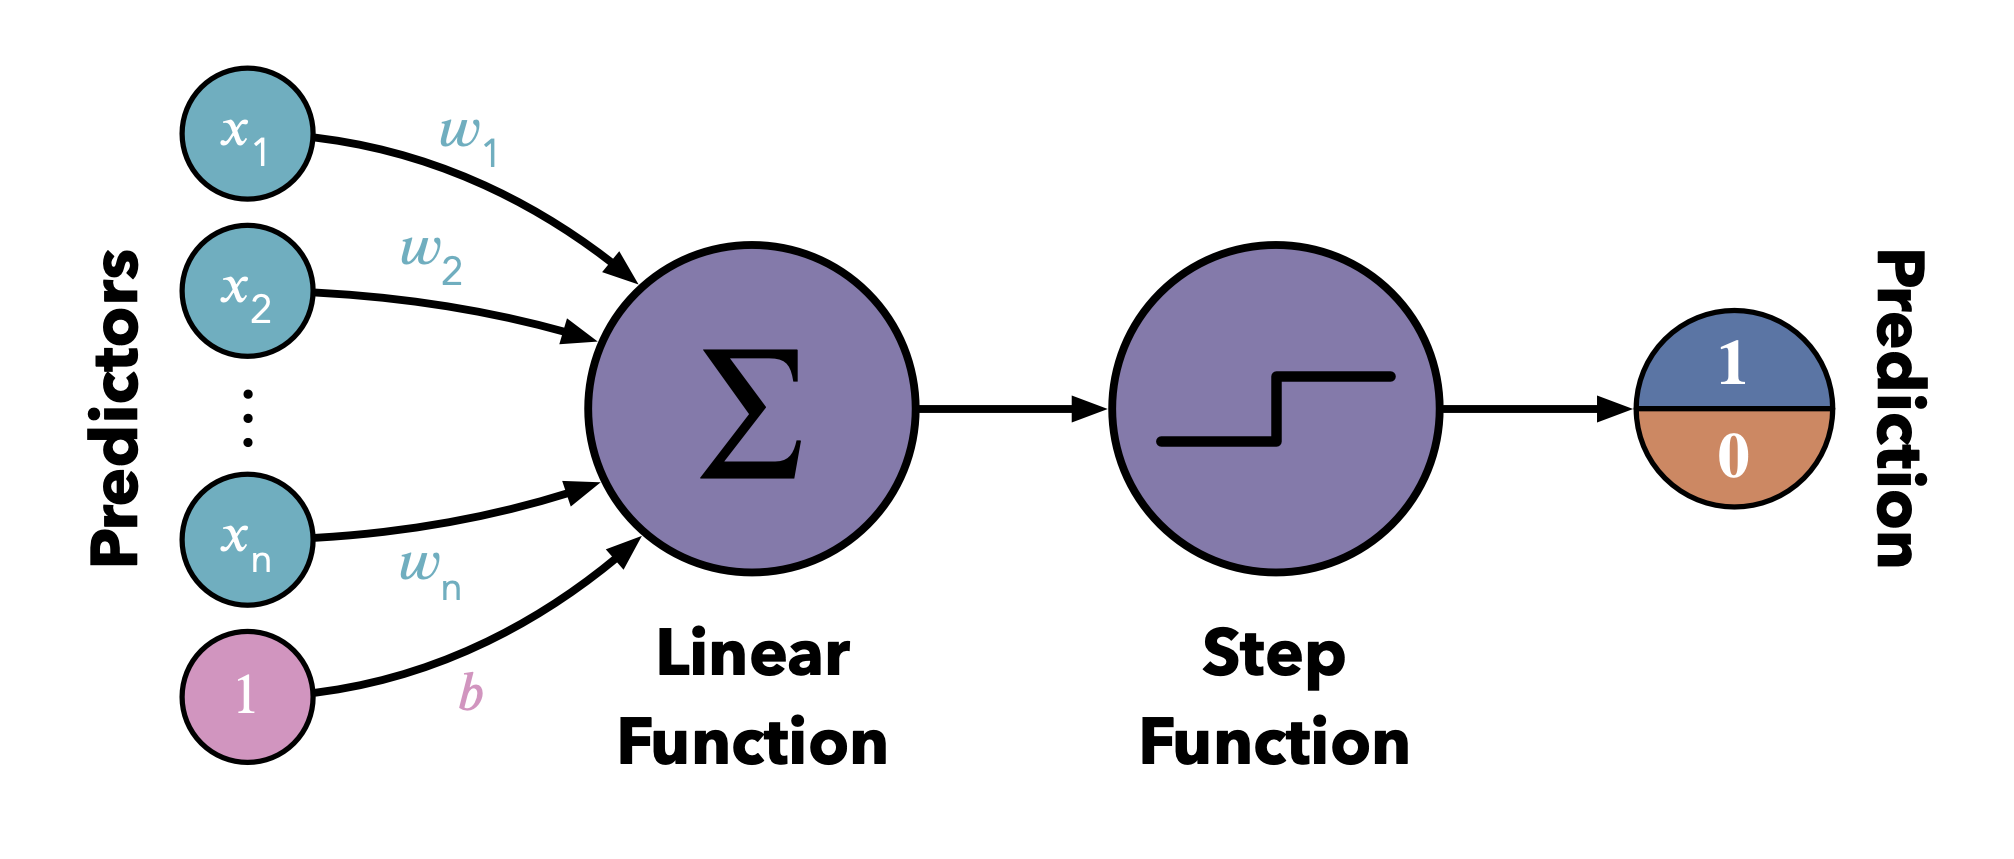
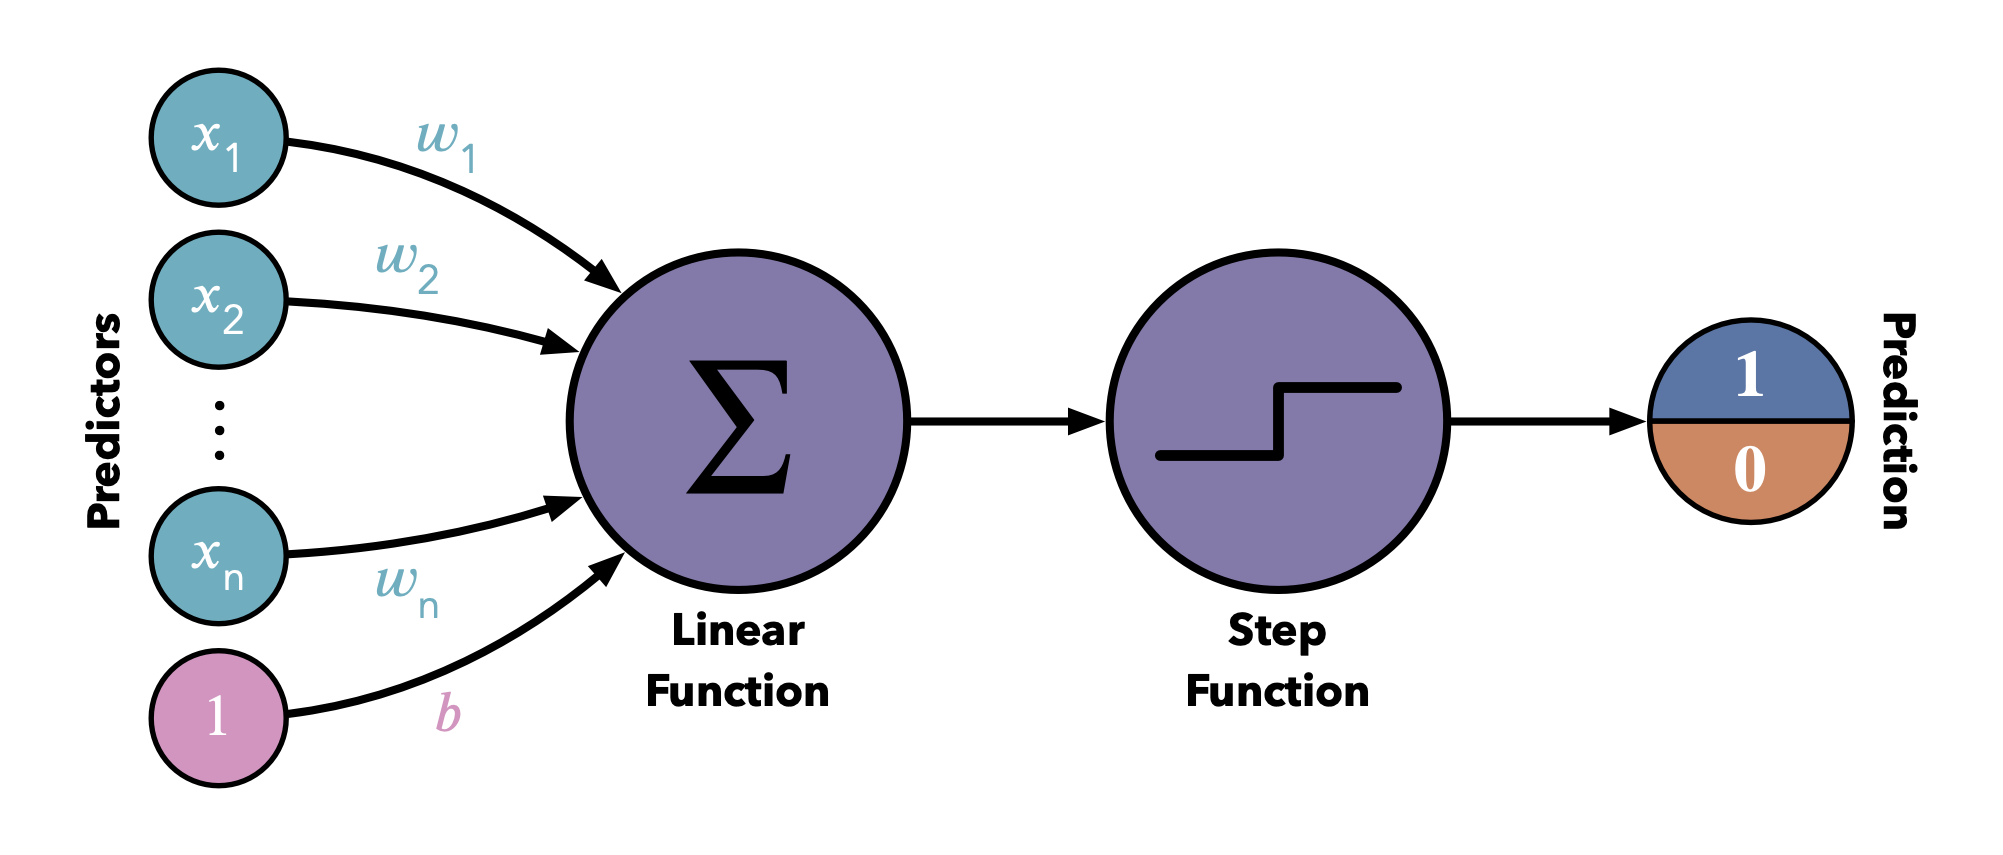
Update documentation

diff --git a/searchindex.js b/searchindex.js
@@ -1,1 +1,1 @@
-Search.setIndex({docnames:["index","machine-learning/reinforcement-learning/index","machine-learning/supervised-learning/index","machine-learning/supervised-learning/linear-regression","machine-learning/supervised-learning/perceptrons","machine-learning/unsupervised-learning/index"],envversion:{"sphinx.domains.c":1,"sphinx.domains.changeset":1,"sphinx.domains.citation":1,"sphinx.domains.cpp":1,"sphinx.domains.index":1,"sphinx.domains.javascript":1,"sphinx.domains.math":2,"sphinx.domains.python":1,"sphinx.domains.rst":1,"sphinx.domains.std":1,sphinx:56},filenames:["index.ipynb","machine-learning/reinforcement-learning/index.ipynb","machine-learning/supervised-learning/index.ipynb","machine-learning/supervised-learning/linear-regression.ipynb","machine-learning/supervised-learning/perceptrons.ipynb","machine-learning/unsupervised-learning/index.ipynb"],objects:{},objnames:{},objtypes:{},terms:{"00000000e":3,"05900000e":3,"09700000e":3,"0th":3,"19918532e":3,"25000000e":3,"29690000e":3,"2x_1":3,"2x_2":3,"30786141e":3,"32600000e":3,"35490000e":3,"3x_1":3,"4c72b0":4,"4th":3,"4x_2":3,"64b5cd":3,"6x_1x_2":3,"77000000e":3,"8172b3":[3,4],"86000000e":3,"86249920e":3,"89000000e":3,"94870000e":3,"95818772e":3,"96325160e":3,"98199191e":3,"import":3,"long":3,"new":[0,2,3],"return":3,"short":3,"super":[0,3],"true":[0,3],"try":[3,4],"while":3,And:4,For:3,One:3,The:[3,4],Then:3,There:3,With:0,abbrevi:4,abl:3,about:[2,3],abov:[3,4],accord:3,account:3,accur:3,achiev:[3,4],across:3,action:1,actual:3,add:3,added:3,adding:3,addit:3,adjust:3,afghanistan:3,aforement:3,after:3,again:[3,4],aim:3,albania:3,algeria:3,algorithm:[1,2],all:3,alpha:3,alreadi:3,also:[2,3],although:2,amount:[3,5],analysi:0,andorra:3,angola:3,ani:3,anoth:3,apart:3,appli:3,around:3,arrai:[3,4],articl:0,assign:3,attend:0,avail:3,averag:3,avoid:3,axes:3,back:0,bad:3,balanc:3,base:0,basi:[3,4],basic:3,batch:3,becaus:3,becom:3,been:0,befor:3,begin:4,behind:3,being:3,belong:2,below:[3,4],best:[3,4],better:3,between:3,beyond:3,big:3,binari:4,blue:4,bmi:3,bmi_and_life_expect:3,bold:3,book:0,boston_data:3,both:[0,3],box:3,broad:2,c44e52:3,calcul:3,call:[3,4],can:[0,2,3],cancel:3,cartesian:3,cast:0,categori:[2,3],certain:1,chain:3,chang:[3,4],check:[0,3],choos:3,classif:[2,3,4],classifi:4,cleaner:3,close:3,closer:3,cluster:5,coef_:3,coeffici:3,collect:3,color:[3,4],column:3,combin:3,come:[3,4],comparison:3,complex:[0,3],comprehens:0,computation:3,concept:3,concern:4,confer:0,consid:[3,4],consider:3,constant:3,contain:3,content:0,conveni:3,convert:4,coordin:3,could:3,count:3,counterintuit:3,countri:3,cours:0,creat:[3,5],csv:3,da8bc3:3,data:[0,2,3,5],dataset:[3,4,5],dd8452:[3,4],deal:[3,4],decreas:3,deep:[0,4],deeper:0,defin:3,degre:3,denot:3,depend:3,depict:4,depth:0,descend:3,describ:[3,4],detail:3,detect:3,determin:3,deviat:3,did:4,differ:3,difficult:3,dimens:3,dimension:[3,4],direct:3,discuss:3,dive:0,divid:[2,4],doe:3,doesn:[3,4],doing:3,domain:0,dot:4,down:3,drastic:3,draw:3,drawn:3,driver:0,dure:0,each:3,earlier:3,easi:3,easili:3,effici:3,enabl:0,encount:0,encourag:0,end:4,enough:3,ensur:3,enter:3,equal:3,especi:3,etc:0,evalu:[3,4],exactli:3,exam:4,exampl:[4,5],expect:3,expens:3,explain:0,explan:3,explor:0,extra:3,extract:2,extrapol:4,extrem:3,fact:3,factor:3,fairer:3,fall:3,fals:3,far:3,faster:3,featur:5,feature_scaling_data:3,few:3,fewer:5,figsiz:3,figur:3,find:[3,4],first:3,fit:3,fit_intercept:3,fit_transform:3,follow:[3,4],fontsiz:3,fontweight:3,form:[3,4],format:3,formula:[3,4],found:3,frac:3,free:3,frequent:0,from:[0,1,2,3],fun:0,funtion:3,further:3,gener:3,geq:4,get:[0,3],give:3,goal:4,good:3,graph:[3,4],great:0,greatli:0,group:5,grow:0,guid:0,happen:3,harder:3,has:[0,3],hat:[3,4],have:[0,3],head:3,header:3,heavili:4,help:3,henc:3,high:[0,3],hous:3,how:3,howev:3,huge:0,hyperplan:4,illustr:3,iloc:3,impact:3,imposs:4,includ:3,incorpor:3,incorrect:3,increas:3,independ:3,individu:3,ineffici:3,inform:0,initi:2,inspir:0,instead:4,intercept:3,interpret:3,introduc:3,involv:[3,4],irrespect:3,item:[2,5],joep:0,journei:0,june:0,just:[0,3],keep:3,kick:0,knowledg:0,known:2,label:[2,3,4,5],lambda:3,larg:5,larger:3,lasso:3,lasso_reg:3,last:3,later:3,ldot:4,lead:3,learn:[0,3,4],least:3,left:4,length:3,less:3,let:3,level:3,life:3,like:[0,3,4],limits_:3,lin_coef:3,lin_reg:3,line:3,linear_model:3,linearregress:3,linspac:3,listen:0,load:3,load_boston:3,log:0,longer:3,lot:[0,3],lowest:3,m_1:3,m_2:3,m_3:3,m_i:3,m_n:3,machin:[0,3],made:[2,3],mai:[0,3],main:0,make:[3,4],mani:[0,2,3],manner:[0,3],match:3,math:4,mathemat:3,matplotlib:3,matrix:3,max:3,mentor:0,middl:3,min:3,mini:3,minim:3,minimum:3,mislead:3,model:[2,3,5],moment:0,more:[0,2,3],most:3,mostli:3,move:3,much:[3,4],multipli:3,name:3,nearest:3,necessari:3,need:[3,4],neg:3,neighbor:3,neither:3,network:4,neural:4,next:3,non:3,none:3,normali:3,notat:[3,4],number:3,numer:[2,3],numpi:3,object:3,offset:3,often:2,one:[0,2,3],ones:5,onli:3,onlin:4,optim:4,option:2,orang:[3,4],origin:3,other:3,our:2,out:3,outcom:[3,4],outlier:3,output:3,outsid:2,over:[0,3],pad:3,panda:3,paramet:3,part:3,partial:3,pass:4,patient:4,pattern:2,penalti:3,per:3,perform:3,persoon:0,pitfal:3,plane:3,pleas:0,plot:[3,4],plt:3,pod:0,podcast:0,point:[3,4],poli:3,poly_feat:3,polynomial_regression_data:3,polynomialfeatur:3,posit:3,possibl:3,power:3,practic:3,predefin:5,predict:[2,3,4],predictor:3,preprocess:3,previou:3,price:3,print:3,problem:3,proceed:3,properti:3,prune:0,punish:3,purpl:4,purpos:3,put:3,pyplot:3,quadrat:3,qualiti:0,question:[2,4],random:3,rang:3,rate:3,reach:0,read:0,read_csv:3,realiti:3,realli:3,reason:3,receiv:1,recov:4,reduc:[3,5],refer:[3,4],reg_coef:3,regress:2,regul:3,regularization_data:3,relat:3,relationship:3,relev:3,remain:3,remov:3,render:3,repres:3,requir:3,reshap:3,respect:3,result:3,retriev:3,reward:1,right:4,rightarrow:3,roughli:3,row:3,rule:3,same:3,sampl:3,sample_hous:3,saw:3,scaled_reg_coef:3,scaler:3,scatter:3,scienc:0,scratch:0,second:3,section:3,see:3,seem:3,seen:3,select:3,sensit:3,set:[2,3],setup:0,shape:0,shop:4,should:3,show:3,similar:[3,5],simpl:4,simplest:3,simplif:3,singl:4,size:3,skeptic:0,sklearn:3,slope:3,small:3,smooth:3,solv:3,some:0,sourc:0,space:[3,4],spars:[0,3],speak:3,specif:[0,3],standardscal:3,start:[0,3],std:3,step:3,still:[3,4],stochast:3,straight:3,structur:0,student:4,subset:3,sum:3,summar:3,supervis:[3,4],support:3,svm:3,system:3,tailor:0,take:[0,1,3,4],target:3,techniqu:3,tell:3,term:3,text:[3,4],textbf:[3,4],than:[2,3],thei:[0,3],them:3,theoret:3,therefor:3,thi:[0,3,4],third:3,those:[1,3],though:3,three:3,thu:3,tightli:3,till:3,time:[0,3,4],titl:3,togeth:3,topic:0,total:3,toward:3,train:[1,2,3,5],train_data:3,training_data:3,transform:3,tri:3,tune:3,two:[2,3,4],type:[2,3,4],typic:[3,4],udac:0,understand:0,unfairli:3,unit:3,unlabel:2,unlik:3,until:3,updat:[0,3],use:3,used:[1,2,3,4],useful:5,uses:3,using:3,usual:3,vallei:3,valu:[2,3,4],var_i:3,var_x:3,vari:3,variabl:[3,4],vast:0,vector:[3,4],veri:3,vertic:3,via:0,video:0,visitor:4,visual:[3,4],w_1:[3,4],w_1x:3,w_1x_1:4,w_2:[3,4],w_2x_2:4,w_3:3,w_i:3,w_n:4,w_nx_n:4,wai:3,want:[0,3],weight:3,weight_norm:3,weight_standard:3,well:[0,3],were:3,what:[3,4],when:[3,4,5],where:[0,3,4],which:[0,2,3,4],whole:3,wiki:0,without:3,work:[2,3],would:[3,4],wouldn:4,wrong:3,x_1:[3,4],x_2:[3,4],x_3:3,x_i:3,x_n:[3,4],x_plot:3,x_plot_poli:3,x_poli:3,x_predict:3,x_scale:3,xlabel:3,y_i:3,year:3,yes:[2,4],ylabel:3,you:0,your:0,zero:3},titles:["Home","Reinforcement Learning","Supervised Learning","Linear Regression","Perceptrons","Unsupervised Learning"],titleterms:{"case":3,"function":3,Use:3,absolut:3,algorithm:[3,4],base:3,boundari:4,code:3,common:3,compar:3,contact:0,deriv:3,descent:3,dimens:4,distanc:3,error:3,exampl:3,featur:3,gradient:3,higher:4,home:0,learn:[1,2,5],line:4,linear:3,mae:3,mean:3,method:3,metric:3,mse:3,multipl:3,normal:3,optim:3,overview:[1,2,3,4,5],perceptron:4,polynomi:3,python:3,refer:0,regress:3,regular:3,reinforc:1,scale:3,simpl:3,squar:3,standard:3,supervis:2,unsupervis:5}})
+Search.setIndex({docnames:["index","machine-learning/reinforcement-learning/index","machine-learning/supervised-learning/index","machine-learning/supervised-learning/linear-regression","machine-learning/supervised-learning/perceptrons","machine-learning/unsupervised-learning/index"],envversion:{"sphinx.domains.c":1,"sphinx.domains.changeset":1,"sphinx.domains.citation":1,"sphinx.domains.cpp":1,"sphinx.domains.index":1,"sphinx.domains.javascript":1,"sphinx.domains.math":2,"sphinx.domains.python":1,"sphinx.domains.rst":1,"sphinx.domains.std":1,sphinx:56},filenames:["index.ipynb","machine-learning/reinforcement-learning/index.ipynb","machine-learning/supervised-learning/index.ipynb","machine-learning/supervised-learning/linear-regression.ipynb","machine-learning/supervised-learning/perceptrons.ipynb","machine-learning/unsupervised-learning/index.ipynb"],objects:{},objnames:{},objtypes:{},terms:{"00000000e":3,"05900000e":3,"09700000e":3,"0th":3,"19918532e":3,"25000000e":3,"29690000e":3,"2x_1":3,"2x_2":3,"30786141e":3,"32600000e":3,"35490000e":3,"3x_1":3,"4c72b0":4,"4th":3,"4x_2":3,"64b5cd":3,"6x_1x_2":3,"77000000e":3,"8172b3":[3,4],"86000000e":3,"86249920e":3,"89000000e":3,"94870000e":3,"95818772e":3,"96325160e":3,"98199191e":3,"function":4,"import":3,"long":3,"new":[0,2,3],"return":3,"short":3,"super":[0,3],"true":[0,3],"try":[3,4],"while":3,And:4,For:3,One:3,The:[3,4],Then:3,There:3,With:0,abbrevi:4,abl:3,about:[2,3],abov:[3,4],accord:3,account:3,accur:3,achiev:[3,4],across:3,action:1,actual:3,add:3,added:3,adding:3,addit:3,adjust:3,afghanistan:3,aforement:3,after:3,again:[3,4],aim:3,albania:3,algeria:3,algorithm:[1,2],all:3,alpha:3,alreadi:3,also:[2,3],although:2,amount:[3,5],analysi:0,andorra:3,angola:3,ani:3,anoth:3,apart:3,appli:3,around:3,arrai:[3,4],articl:0,assign:3,attend:0,avail:3,averag:3,avoid:3,axes:3,back:0,bad:3,balanc:3,base:0,basi:[3,4],basic:3,batch:3,becaus:3,becom:3,been:0,befor:3,begin:4,behind:3,being:3,belong:2,below:[3,4],best:[3,4],better:3,between:3,beyond:3,bia:4,big:3,binari:4,blue:4,bmi:3,bmi_and_life_expect:3,bold:3,book:0,boston_data:3,both:[0,3],box:3,broad:2,c44e52:3,calcul:3,call:[3,4],can:[0,2,3],cancel:3,cartesian:3,cast:0,categori:[2,3],certain:1,chain:3,chang:[3,4],check:[0,3],choos:3,classif:[2,3,4],classifi:4,cleaner:3,close:3,closer:3,cluster:5,coef_:3,coeffici:3,collect:3,color:[3,4],column:3,combin:3,come:[3,4],comparison:3,complex:[0,3],comprehens:0,computation:3,concept:3,concern:4,confer:0,consid:[3,4],consider:3,constant:3,contain:3,content:0,conveni:3,convert:4,coordin:3,could:3,count:3,counterintuit:3,countri:3,cours:0,creat:[3,5],csv:3,da8bc3:[3,4],data:[0,2,3,5],dataset:[3,4,5],dd8452:[3,4],deal:[3,4],decreas:3,deep:[0,4],deeper:0,defin:3,degre:3,denot:3,depend:3,depict:4,depth:0,descend:3,describ:[3,4],detail:3,detect:3,determin:3,deviat:3,did:4,differ:3,difficult:3,dimens:3,dimension:[3,4],direct:3,discuss:3,dive:0,divid:[2,4],doe:3,doesn:[3,4],doing:3,domain:0,dot:4,down:3,drastic:3,draw:3,drawn:3,driver:0,dure:0,each:3,earlier:3,easi:3,easili:3,effici:3,enabl:0,encount:0,encourag:0,end:4,enough:3,ensur:3,enter:3,equal:3,especi:3,etc:0,evalu:[3,4],exactli:3,exam:4,exampl:[4,5],expect:3,expens:3,explain:0,explan:3,explor:0,extra:3,extract:2,extrapol:4,extrem:3,fact:3,factor:3,fairer:3,fall:3,fals:3,far:3,faster:3,featur:5,feature_scaling_data:3,few:3,fewer:5,figsiz:3,figur:3,find:[3,4],first:3,fit:3,fit_intercept:3,fit_transform:3,follow:[3,4],fontsiz:3,fontweight:3,form:[3,4],format:3,formula:[3,4],found:3,frac:3,free:3,frequent:0,from:[0,1,2,3],fun:0,funtion:3,further:3,gener:3,geq:4,get:[0,3],give:3,goal:4,good:3,graph:[3,4],great:0,greatli:0,group:5,grow:0,guid:0,happen:3,harder:3,has:[0,3],hat:[3,4],have:[0,3],head:3,header:3,heavili:4,help:3,henc:3,high:[0,3],hous:3,how:3,howev:3,huge:0,hyperplan:4,illustr:3,iloc:3,impact:3,imposs:4,includ:3,incorpor:3,incorrect:3,increas:3,independ:3,individu:3,ineffici:3,inform:0,initi:2,input:4,insid:4,inspir:0,instead:4,intercept:3,interpret:3,introduc:3,involv:[3,4],irrespect:3,item:[2,5],joep:0,journei:0,june:0,just:[0,3],keep:3,kick:0,knowledg:0,known:2,label:[2,3,4,5],lambda:3,larg:5,larger:3,lasso:3,lasso_reg:3,last:3,later:3,ldot:4,lead:3,learn:[0,3,4],least:3,left:4,length:3,less:3,let:3,level:3,life:3,like:[0,3,4],limits_:3,lin_coef:3,lin_reg:3,line:3,linear:4,linear_model:3,linearregress:3,linspac:3,listen:0,load:3,load_boston:3,log:0,longer:3,lot:[0,3],lowest:3,m_1:3,m_2:3,m_3:3,m_i:3,m_n:3,machin:[0,3],made:[2,3],mai:[0,3],main:0,make:[3,4],mani:[0,2,3],manner:[0,3],match:3,math:4,mathemat:3,matplotlib:3,matrix:3,max:3,mentor:0,middl:3,min:3,mini:3,minim:3,minimum:3,mislead:3,model:[2,3,5],moment:0,more:[0,2,3],most:3,mostli:3,move:3,much:[3,4],multipli:3,name:3,nearest:3,necessari:3,need:[3,4],neg:3,neighbor:3,neither:3,network:4,neural:4,next:3,node:4,non:3,none:3,normali:3,notat:[3,4],number:3,numer:[2,3],numpi:3,object:3,offset:3,often:2,one:[0,2,3],ones:5,onli:3,onlin:4,optim:4,option:2,orang:[3,4],origin:3,other:3,our:2,out:3,outcom:[3,4],outlier:3,output:3,outsid:2,over:[0,3],pad:3,panda:3,paramet:3,part:3,partial:3,pass:4,patient:4,pattern:2,penalti:3,per:3,perform:3,persoon:0,pitfal:3,plane:3,pleas:0,plot:[3,4],plt:3,pod:0,podcast:0,point:[3,4],poli:3,poly_feat:3,polynomial_regression_data:3,polynomialfeatur:3,posit:3,possibl:3,power:3,practic:3,predefin:5,predict:[2,3,4],predictor:3,preprocess:3,previou:3,price:3,print:3,problem:3,proceed:3,properti:3,prune:0,punish:3,purpl:4,purpos:3,put:3,pyplot:3,quadrat:3,qualiti:0,question:[2,4],random:3,rang:3,rate:3,reach:0,read:0,read_csv:3,realiti:3,realli:3,reason:3,receiv:1,recov:4,reduc:[3,5],refer:[3,4],reg_coef:3,regress:2,regul:3,regularization_data:3,relat:3,relationship:3,relev:3,remain:3,remov:3,render:3,repres:3,requir:3,reshap:3,respect:3,result:3,retriev:3,reward:1,right:4,rightarrow:3,roughli:3,row:3,rule:3,same:3,sampl:3,sample_hous:3,saw:3,scaled_reg_coef:3,scaler:3,scatter:3,scienc:0,scratch:0,second:3,section:3,see:3,seem:3,seen:3,select:3,sensit:3,separ:4,set:[2,3],setup:0,shape:0,shop:4,should:3,show:3,similar:[3,5],simpl:4,simplest:3,simplif:3,singl:4,size:3,skeptic:0,sklearn:3,slope:3,small:3,smooth:3,solv:3,some:0,sometim:4,sourc:0,space:[3,4],spars:[0,3],speak:3,specif:[0,3],standardscal:3,start:[0,3],std:3,step:3,still:[3,4],stochast:3,straight:3,structur:0,student:4,subset:3,sum:3,summar:3,supervis:[3,4],support:3,svm:3,system:3,tailor:0,take:[0,1,3,4],target:3,techniqu:3,tell:3,term:3,text:[3,4],textbf:[3,4],than:[2,3],thei:[0,3],them:3,theoret:3,therefor:3,thi:[0,3,4],third:3,those:[1,3],though:3,three:3,thu:3,tightli:3,till:3,time:[0,3,4],titl:3,togeth:3,topic:0,total:3,toward:3,train:[1,2,3,5],train_data:3,training_data:3,transform:3,tri:3,tune:3,two:[2,3,4],type:[2,3,4],typic:[3,4],udac:0,understand:0,unfairli:3,unit:3,unlabel:2,unlik:3,until:3,updat:[0,3],use:3,used:[1,2,3,4],useful:5,uses:3,using:3,usual:3,vallei:3,valu:[2,3,4],var_i:3,var_x:3,vari:3,variabl:[3,4],vast:0,vector:[3,4],veri:3,vertic:3,via:0,video:0,visitor:4,visual:[3,4],w_1:[3,4],w_1x:3,w_1x_1:4,w_2:[3,4],w_2x_2:4,w_3:3,w_i:3,w_n:4,w_nx_n:4,wai:3,want:[0,3],weight:3,weight_norm:3,weight_standard:3,well:[0,3],were:3,what:[3,4],when:[3,4,5],where:[0,3,4],which:[0,2,3,4],whole:3,wiki:0,without:3,work:[2,3],would:[3,4],wouldn:4,wrong:3,x_1:[3,4],x_2:[3,4],x_3:3,x_i:3,x_n:[3,4],x_plot:3,x_plot_poli:3,x_poli:3,x_predict:3,x_scale:3,xlabel:3,y_i:3,year:3,yes:[2,4],ylabel:3,you:0,your:0,zero:3},titles:["Home","Reinforcement Learning","Supervised Learning","Linear Regression","Perceptrons","Unsupervised Learning"],titleterms:{"case":3,"function":3,Use:3,absolut:3,algorithm:[3,4],base:3,boundari:4,code:3,common:3,compar:3,contact:0,deriv:3,descent:3,dimens:4,distanc:3,error:3,exampl:3,featur:3,gradient:3,higher:4,home:0,learn:[1,2,5],line:4,linear:3,mae:3,mean:3,method:3,metric:3,mse:3,multipl:3,normal:3,optim:3,overview:[1,2,3,4,5],perceptron:4,polynomi:3,python:3,refer:0,regress:3,regular:3,reinforc:1,scale:3,simpl:3,squar:3,standard:3,supervis:2,unsupervis:5}})

diff --git a/machine-learning/supervised-learning/perceptrons.html b/machine-learning/supervised-learning/perceptrons.html
@@ -250,6 +250,10 @@ x = (x_1, x_2, \ldots, x_n)\)</span></p>
 <div class="section" id="perceptron-algorithm">
 <h3>Perceptron Algorithm<a class="headerlink" href="#perceptron-algorithm" title="Permalink to this headline">¶</a></h3>
 <p><img alt="Perceptrons" src="../../_images/perceptrons.png" /></p>
+<div class="admonition note">
+<p class="admonition-title">Note</p>
+<p>The bias <span class="math notranslate nohighlight">\(\color{#da8bc3}{b}\)</span> is sometimes depicted inside the <strong>Linear Function</strong> node, instead of as a separate input.</p>
+</div>
 </div>
 </div>
 </div>
